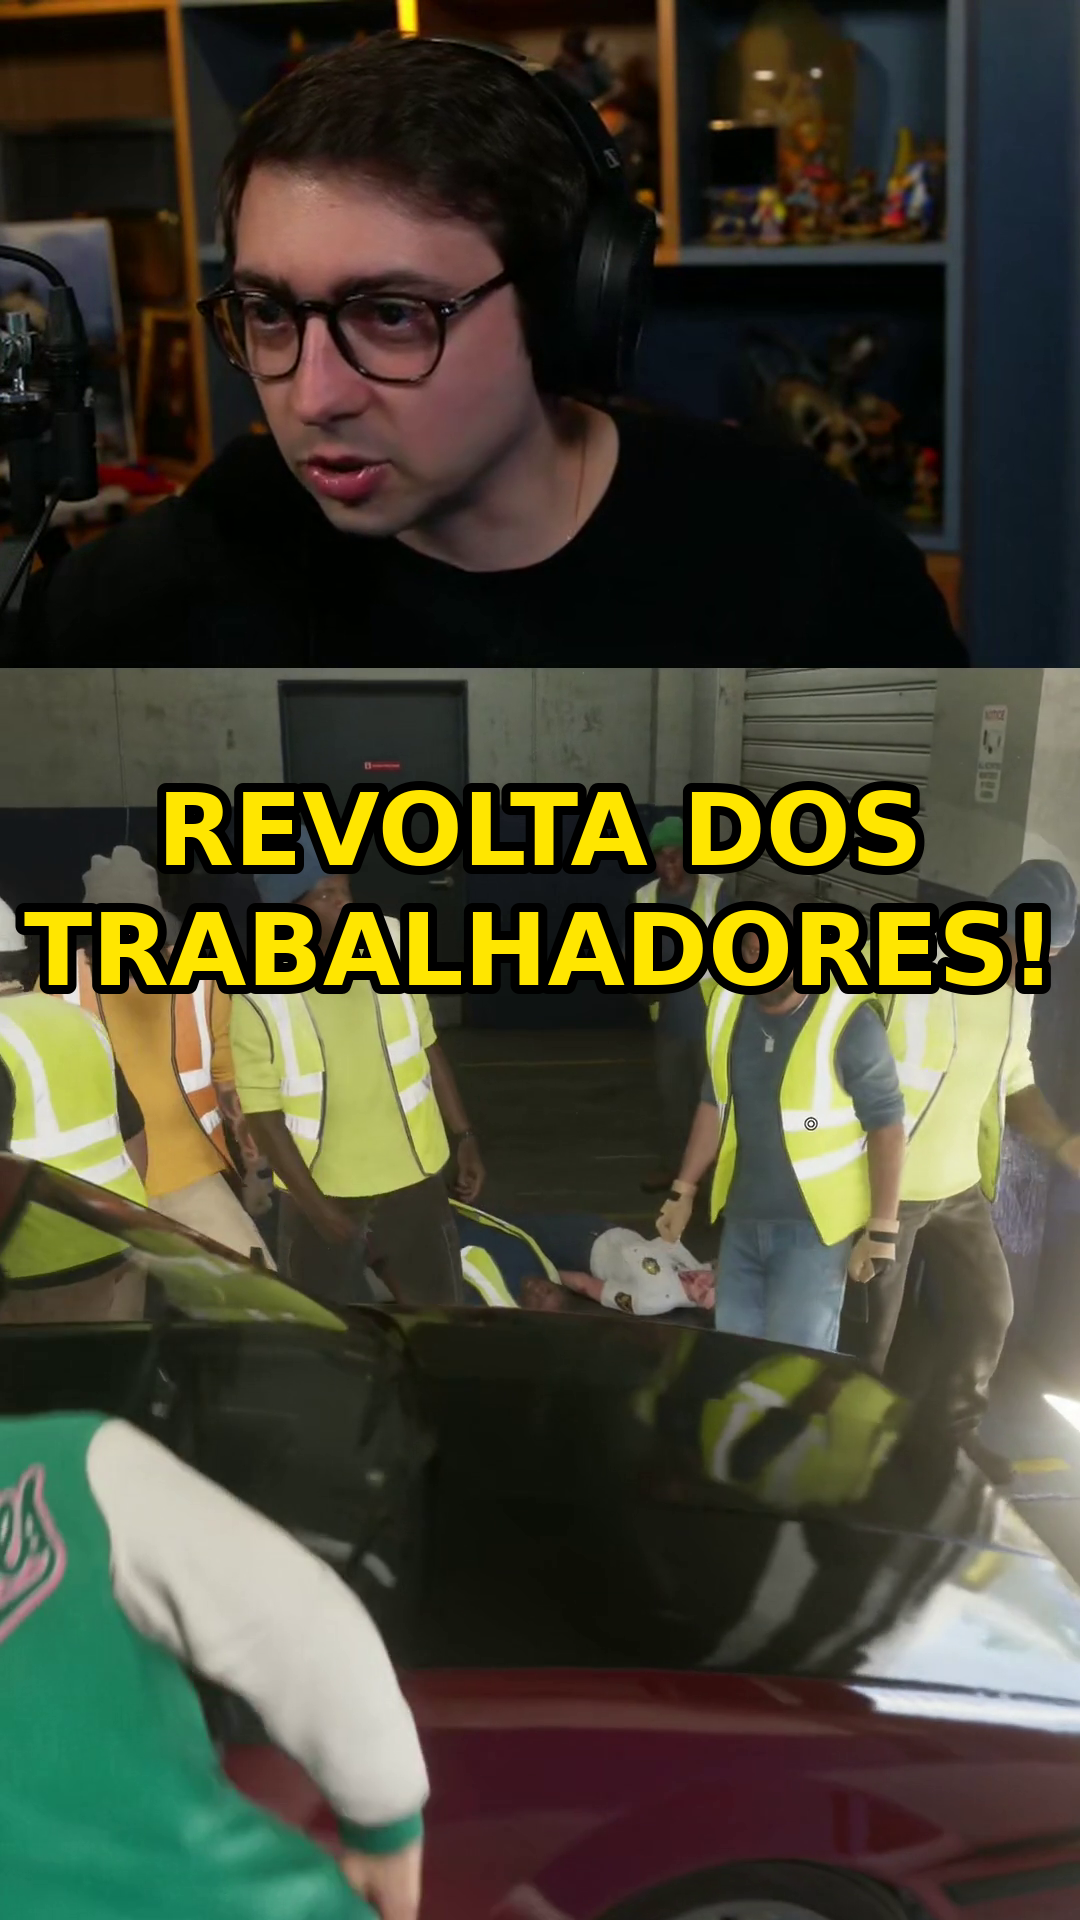
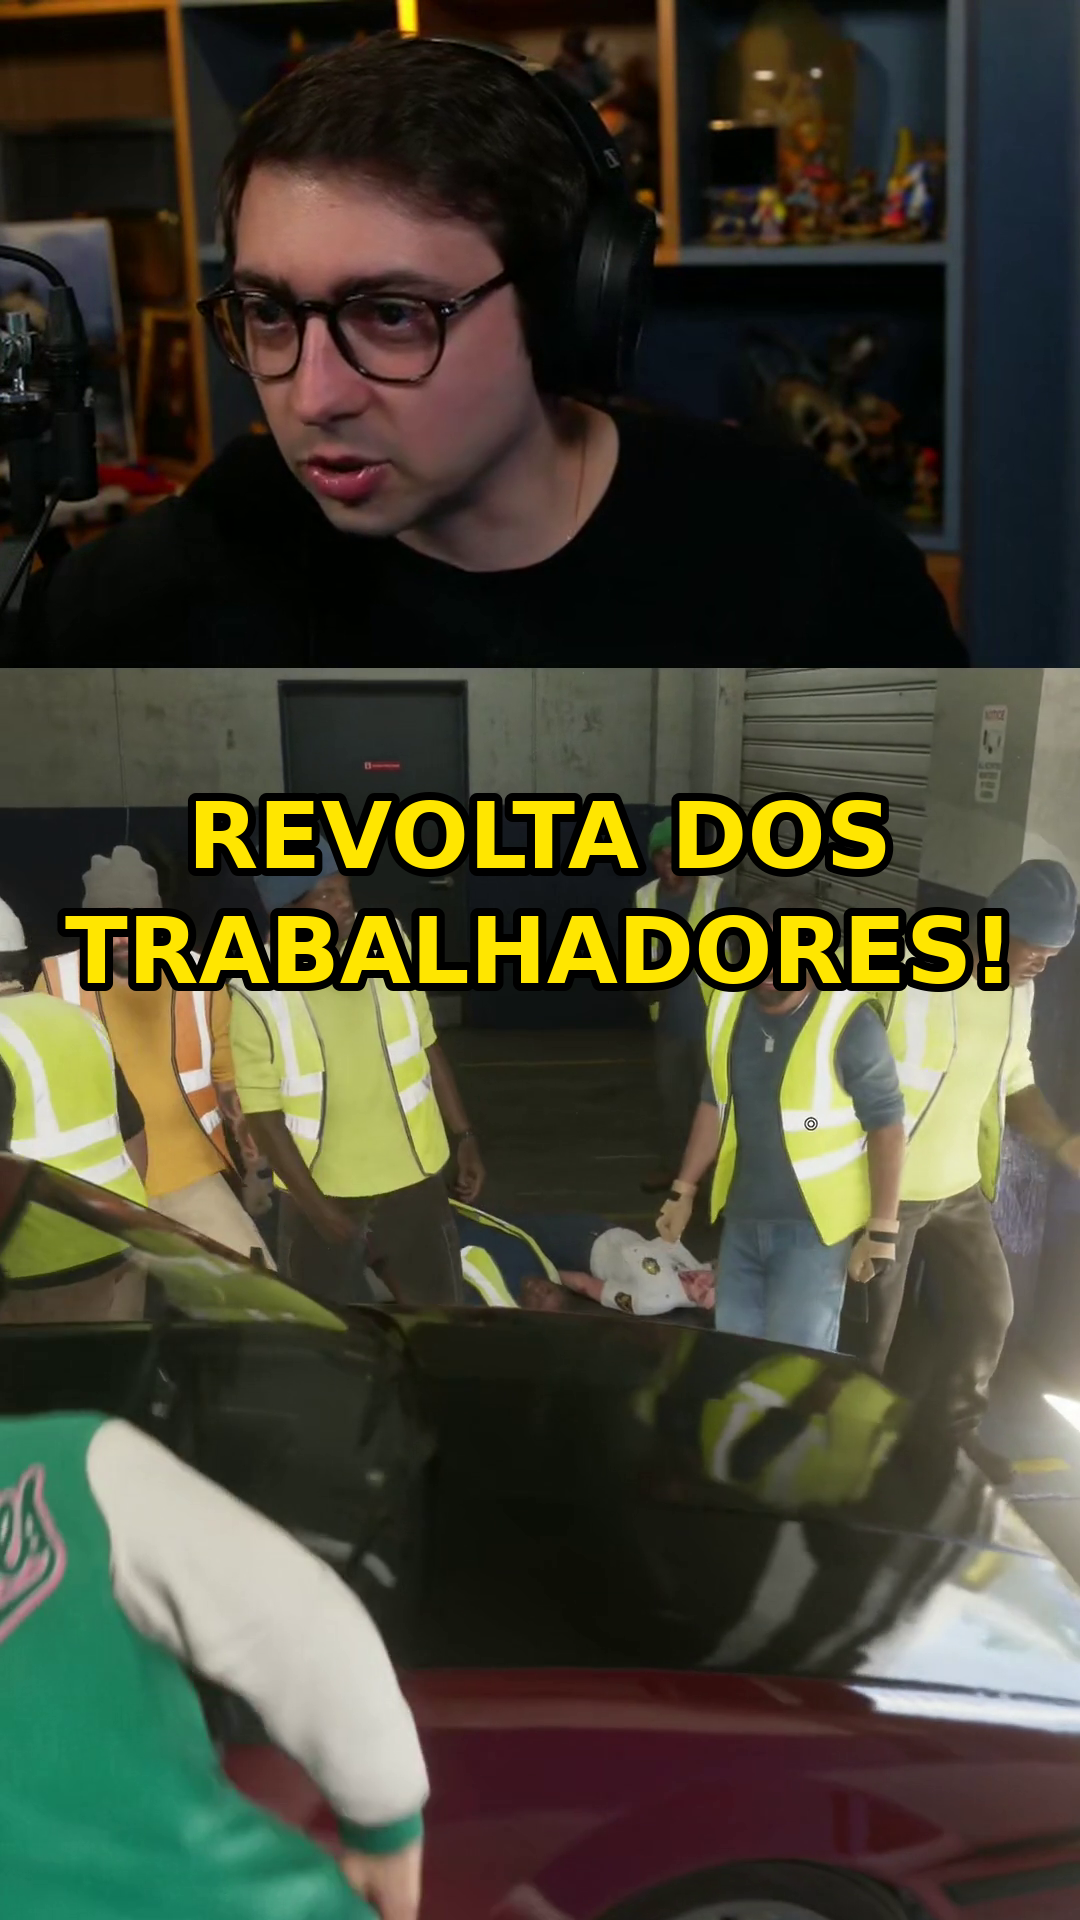
Capa do clipe 2026-11-27 alanzoka trabalhadores (layout stack, texto com margem)
Claude-Session: https://claude.ai/code/session_01C45kP2tLKJq47yshZE6127

Changed region(s): [[0.0, 0.4062, 0.9778, 0.5312]]

diff --git a/runs/2026-11-27_alanzoka_trabalhadores/capa.md b/runs/2026-11-27_alanzoka_trabalhadores/capa.md
@@ -1,0 +1,7 @@
+# Capa: 2026-11-27_alanzoka_trabalhadores
+
+- Arquivo: `runs/2026-11-27_alanzoka_trabalhadores/capa.png` (1080x1920), mesmo layout `stack` do vídeo: câmera do Alan em cima (até y 668, sem widget de sub e sem nomes do chat), gameplay embaixo (sem legendas queimadas).
+- Quadro: 42,5 s do `source/final.mp4` (grupo de trabalhadores de colete cercando o carro; o Alan reagindo em cima, rosto inteiro no quadro, sem borrão e sem escuridão).
+- Texto: "REVOLTA DOS / TRABALHADORES!" amarelo (#FFE600) com contorno preto, fonte DejaVu Sans Bold 92 px, centralizado na faixa y ~790-990 (abaixo da câmera, acima da área coberta pela interface). Margens laterais medidas: 57 px (esq.) e 71 px (dir.), acima dos 40 px exigidos. Três palavras, dentro do limite de quatro.
+- Gancho de referência: "Revolta dos trabalhadores! O Alan escapa?" (`gancho.md`, opção A). A capa usa só a parte da fala do próprio Alan.
+- Alternativa de texto, se quiser testar: "O ALAN ESCAPA?" no mesmo quadro.
